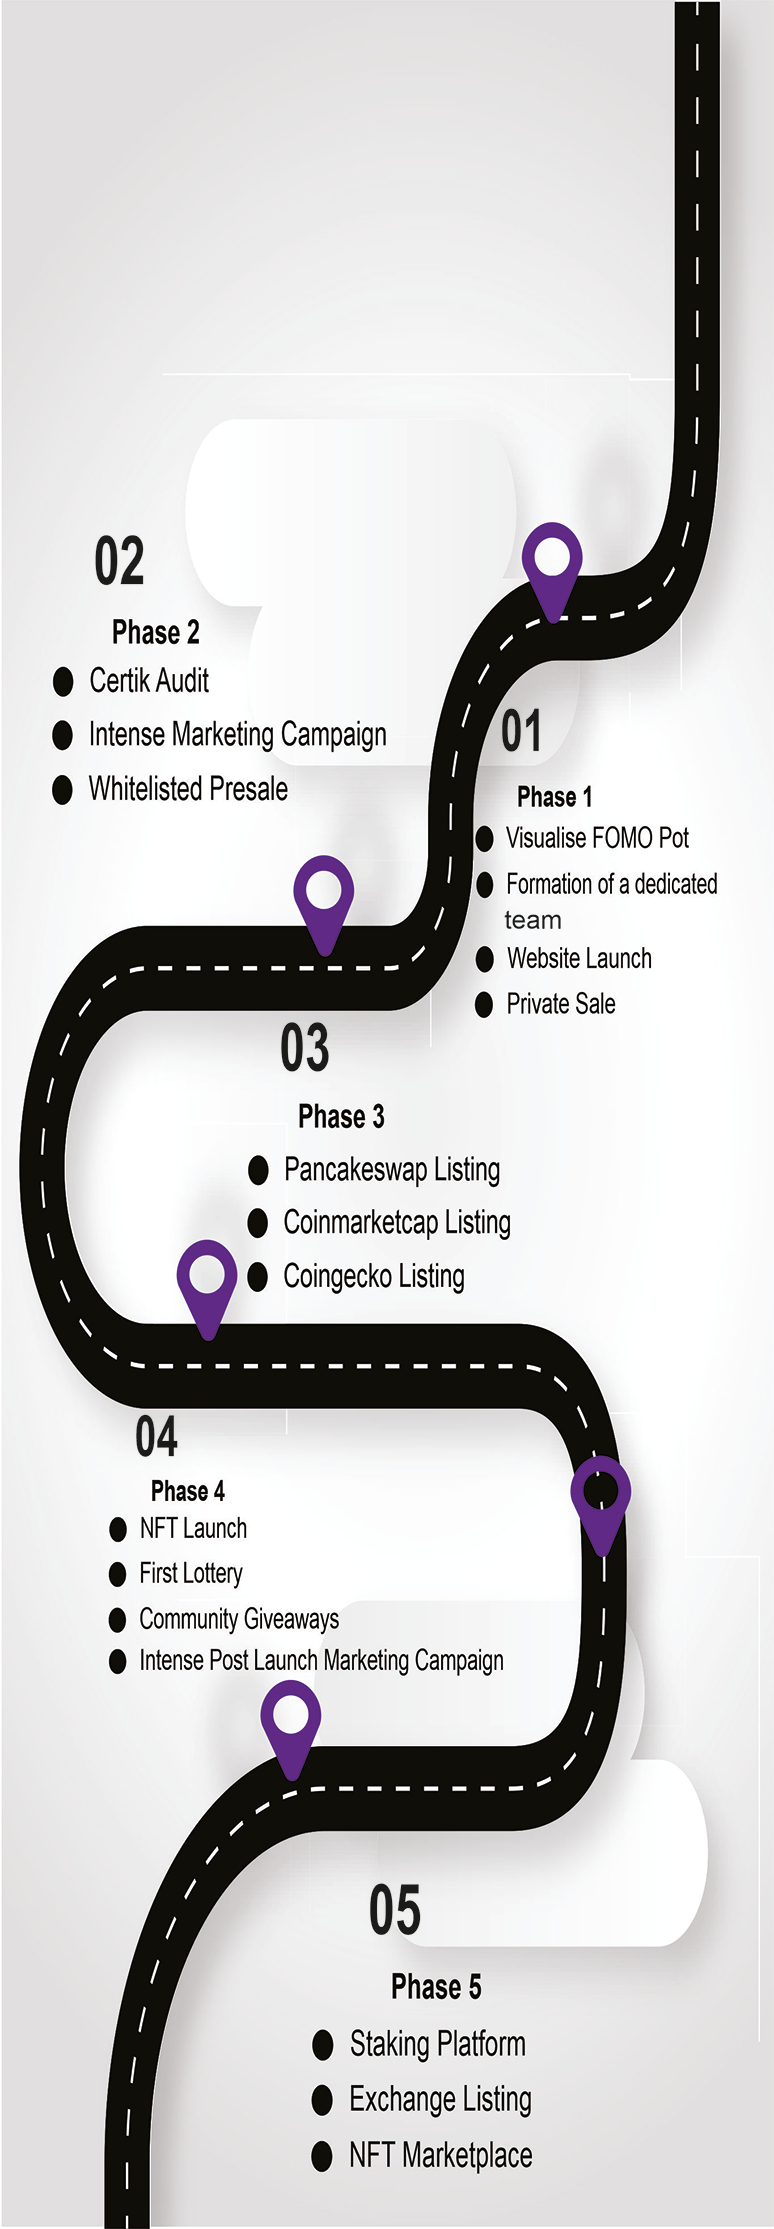
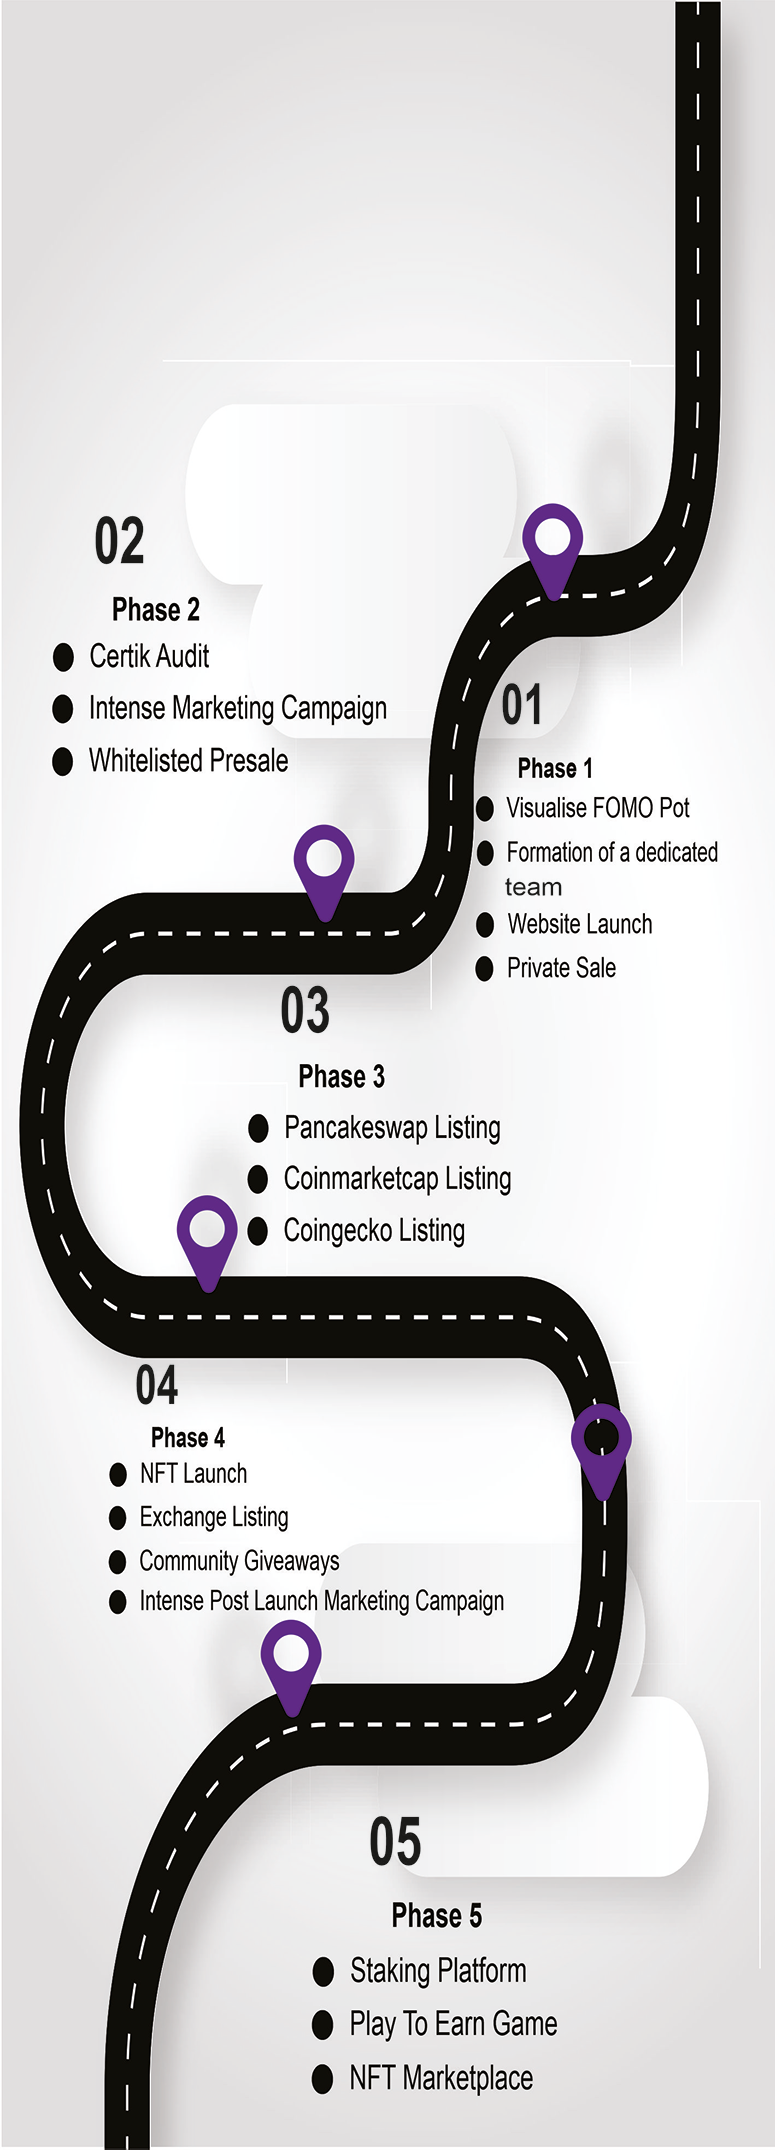
final commit

diff --git a/src/css/homepagecss.css b/src/css/homepagecss.css
@@ -1,4 +1,22 @@
 
+h5{
+  font-size:1.5rem;
+ 
+  color:white;
+  font-family: 'Merienda', cursive;
+  animation-name:glow;
+  animation-duration:1s;
+  animation-iteration-count:infinite;
+  animation-direction:alternate;
+}
+
+@keyframes glow{
+  from{text-shadow:0px 0px 5px #FBE256,0px 0px 5px #FBE256;}
+  to{text-shadow:0px 0px 20px #FBE256,0px 0px 20px #FBE256;}
+}
+
+
+
 @media (min-width: 360px)  { 
  
   .homecen{
@@ -33,6 +51,11 @@
     font-size: 0.9rem;
     border-radius:  20px;
     color:black,
+  }
+
+  .certimg {
+    width:125%;
+    padding-right: 100px;
   }
  
  }
@@ -95,6 +118,10 @@
     margin-top: 50px;
   } 
    
+  .certimg {
+    width:auto;
+   padding-right: 0px;
+  }
  }
 
 /* // Large devices (desktops, 992px and up) */
@@ -159,6 +186,10 @@
         border-radius:  20px;
         color:black,
       }
+      .certimg {
+        width:auto;
+       padding-right: 0px;
+      }
    
  }
 
@@ -196,4 +227,10 @@
       border-radius:  20px;
       color:black,
     }
+
+    .certimg {
+      width:auto;
+     padding-right: 0px;
+    }
+   
 }

diff --git a/src/components/Knowfounder.jsx b/src/components/Knowfounder.jsx
@@ -22,8 +22,8 @@ function Knowfounder(){
       
     {/* <img className="image-cropper" src={founder} alt="Photo of sunset"/> */}
         {/* <h4 className="item-card-title mt-3 mb-3">Ayush-Founder/CEO</h4> */}
-        <p className="card-text mt-5">"The utilities that have been planned include our own staking platform, NFT and NFT minting website, our own launchpad, last but not the least we will have our own NFT Marketplace.
-We will build more utilities in the near future as we grow but it will not deviate us from our main utility which is 'Community satisfaction and profit making utility"</p> 
+        <p className="card-text mt-5">"The utilities that have been planned include our own staking platform, NFT and NFT minting website, our own launchpad, Play to earn game.
+Last but not the least we will have our own NFT Marketplace. We will build more utilities in the near future as we grow but it will not deviate us from our main utility which is 'Community satisfaction and profit making utility' "</p> 
   </div>
     </div>
     </div>

diff --git a/src/css/gencss.css b/src/css/gencss.css
@@ -251,7 +251,7 @@ body{
 
 .roadmapsec {
   margin-top: 5px;
-  background-image: url("../img/roadmappic.jpg");
+  background-image: url("../img/roadmappic.png");
   position: relative;
   background-repeat: no-repeat;
   background-size: cover;
@@ -304,7 +304,7 @@ body{
   
   .roadmapsec {
     margin-top: 5px;
-    background-image: url("../img/roadmappic.jpg");
+    background-image: url("../img/roadmappic.png");
     position: relative;
     background-repeat: no-repeat;
     background-size: cover;
@@ -349,7 +349,7 @@ body{
         background-position: center;
         background-repeat: no-repeat;
         background-size: cover;
-        height: 105vh;
+        height: 120vh;
       
      }
     
@@ -372,7 +372,7 @@ body{
     .roadmapsec {
       
       margin-top: 5px;
-      background-image: url("../img/roadmappic.jpg");
+      background-image: url("../img/roadmappic.png");
       position: relative;
       background-repeat: no-repeat;
      

diff --git a/src/App.js b/src/App.js
@@ -9,6 +9,7 @@ import Knowfounder from "./components/Knowfounder";
 import Ftcomp from "./components/Footercomp";
 import Ytimg from "../src/img/yeltop.png";
 import Ybimg from "../src/img/yelbottom.png";
+import Certicimg from "../src/img/certic.png";
 import "./css/gencss.css";
 
 
@@ -27,9 +28,8 @@ function App() {
       img={fomocaption}
       yellowtop={Ytimg}
       yellowbottom={Ybimg}
-      txt="FOMO Pot is a community driven token on the binance smart chain which grows and multiplies in your wallet just  by holding.
-We will reward all the holders through reflections in FOMO Pot tokens. Besides that loyal members who continue to hold the tokens will be rewarded via giveaways.
-" 
+      certic={Certicimg}
+      txt="FOMO Pot is a community driven token on the binance smart chain which grows and multiplies in your wallet just  by holding." 
     />
     </section>
 

diff --git a/src/components/Homecenter.jsx b/src/components/Homecenter.jsx
@@ -32,7 +32,7 @@ function Homecenter(props) {
 
         <img className="fomosize" src={props.img} />
 
-        <h5 className="text-white" style={{ fontSize: "1em" }}>
+        <h5 className="text-white" style={{ fontSize: "1.6em" }}>
           {props.txt}
         </h5>
         <img className="fomosticker mb-4" src={gifimg} />
@@ -89,6 +89,15 @@ function Homecenter(props) {
               Join Telegram
             </a>
           </div>
+
+          <div className="col-xl-12 mb-3 mb-sm-3 ms-auto me-auto ">
+          {/* <a href="https://www.certik.com/projects/fomopot">
+        <img   className="certimg" src={props.certic} style={{paddingRight:"100px"}} alt="An image"/>
+      </a> */}
+          
+           
+          </div>
+
           {/* <div className="col-xl-6">
             <a
               type="button"

diff --git a/public/index.html b/public/index.html
@@ -24,9 +24,9 @@
     <div id="root"></div>
     <script>
 
-        if (window.location.protocol == 'http:') {
-              window.location.href = window.location.href.replace('http:', 'https:');
-      }
+      //   if (window.location.protocol == 'http:') {
+      //         window.location.href = window.location.href.replace('http:', 'https:');
+      // }
      
       
 
